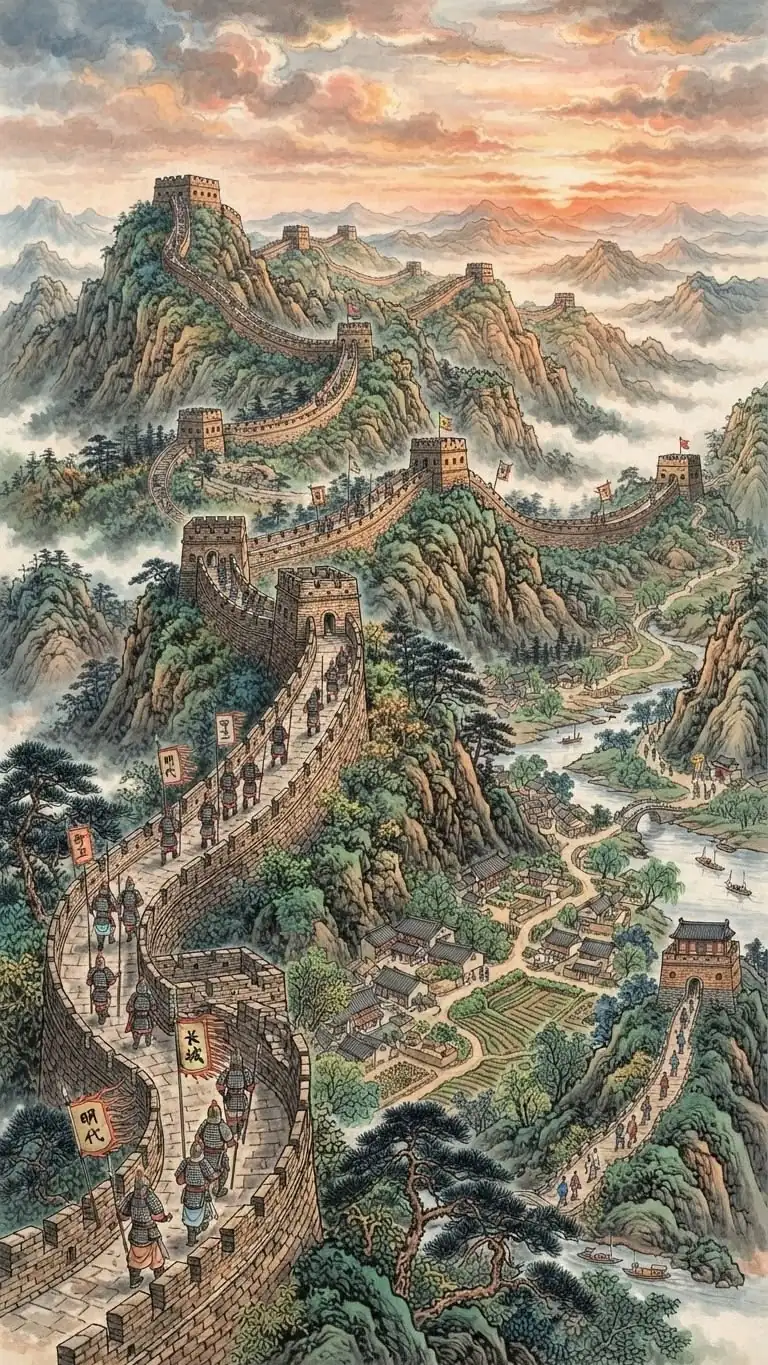
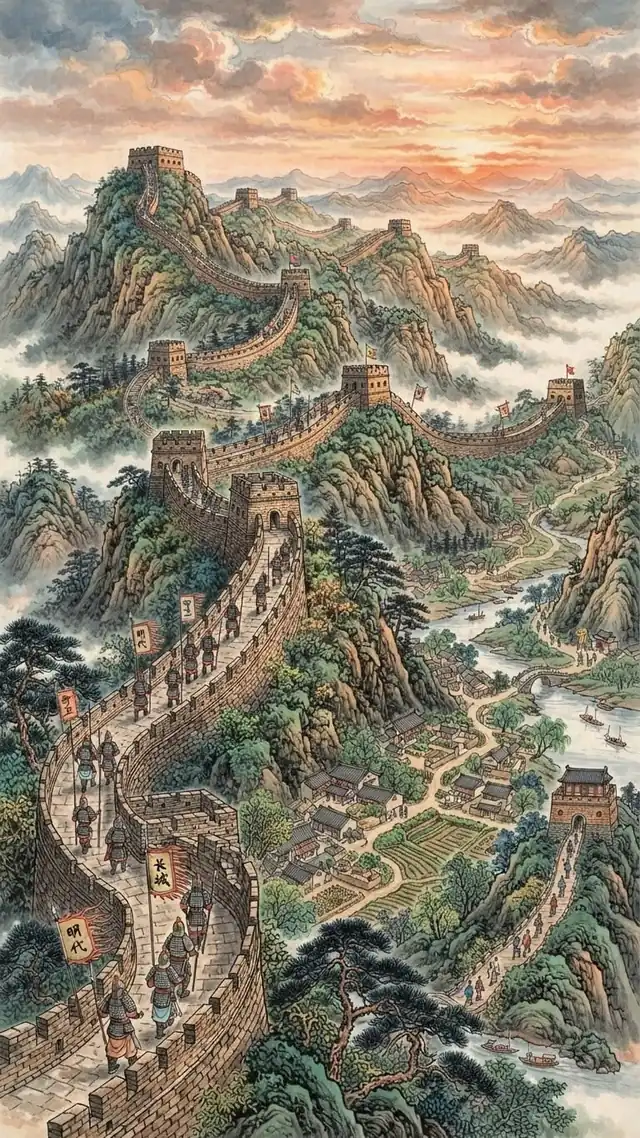
fondo mas liviano y pedido desde el html

diff --git a/frontend/index.html b/frontend/index.html
@@ -13,6 +13,10 @@
     <meta name="apple-mobile-web-app-title" content="HanziMentor" />
     <link rel="apple-touch-icon" href="/icon-192.png" />
 
+    <!-- Paisaje de fondo (tokens.css, --shell-image): es lo más grande de la primera
+         pantalla. Sin esto el navegador lo descubre recién cuando React pinta. -->
+    <link rel="preload" as="image" type="image/webp" href="/src/assets/fondos/fondo.webp" fetchpriority="high" />
+
     <title>HanziMentor</title>
   </head>
   <body>
